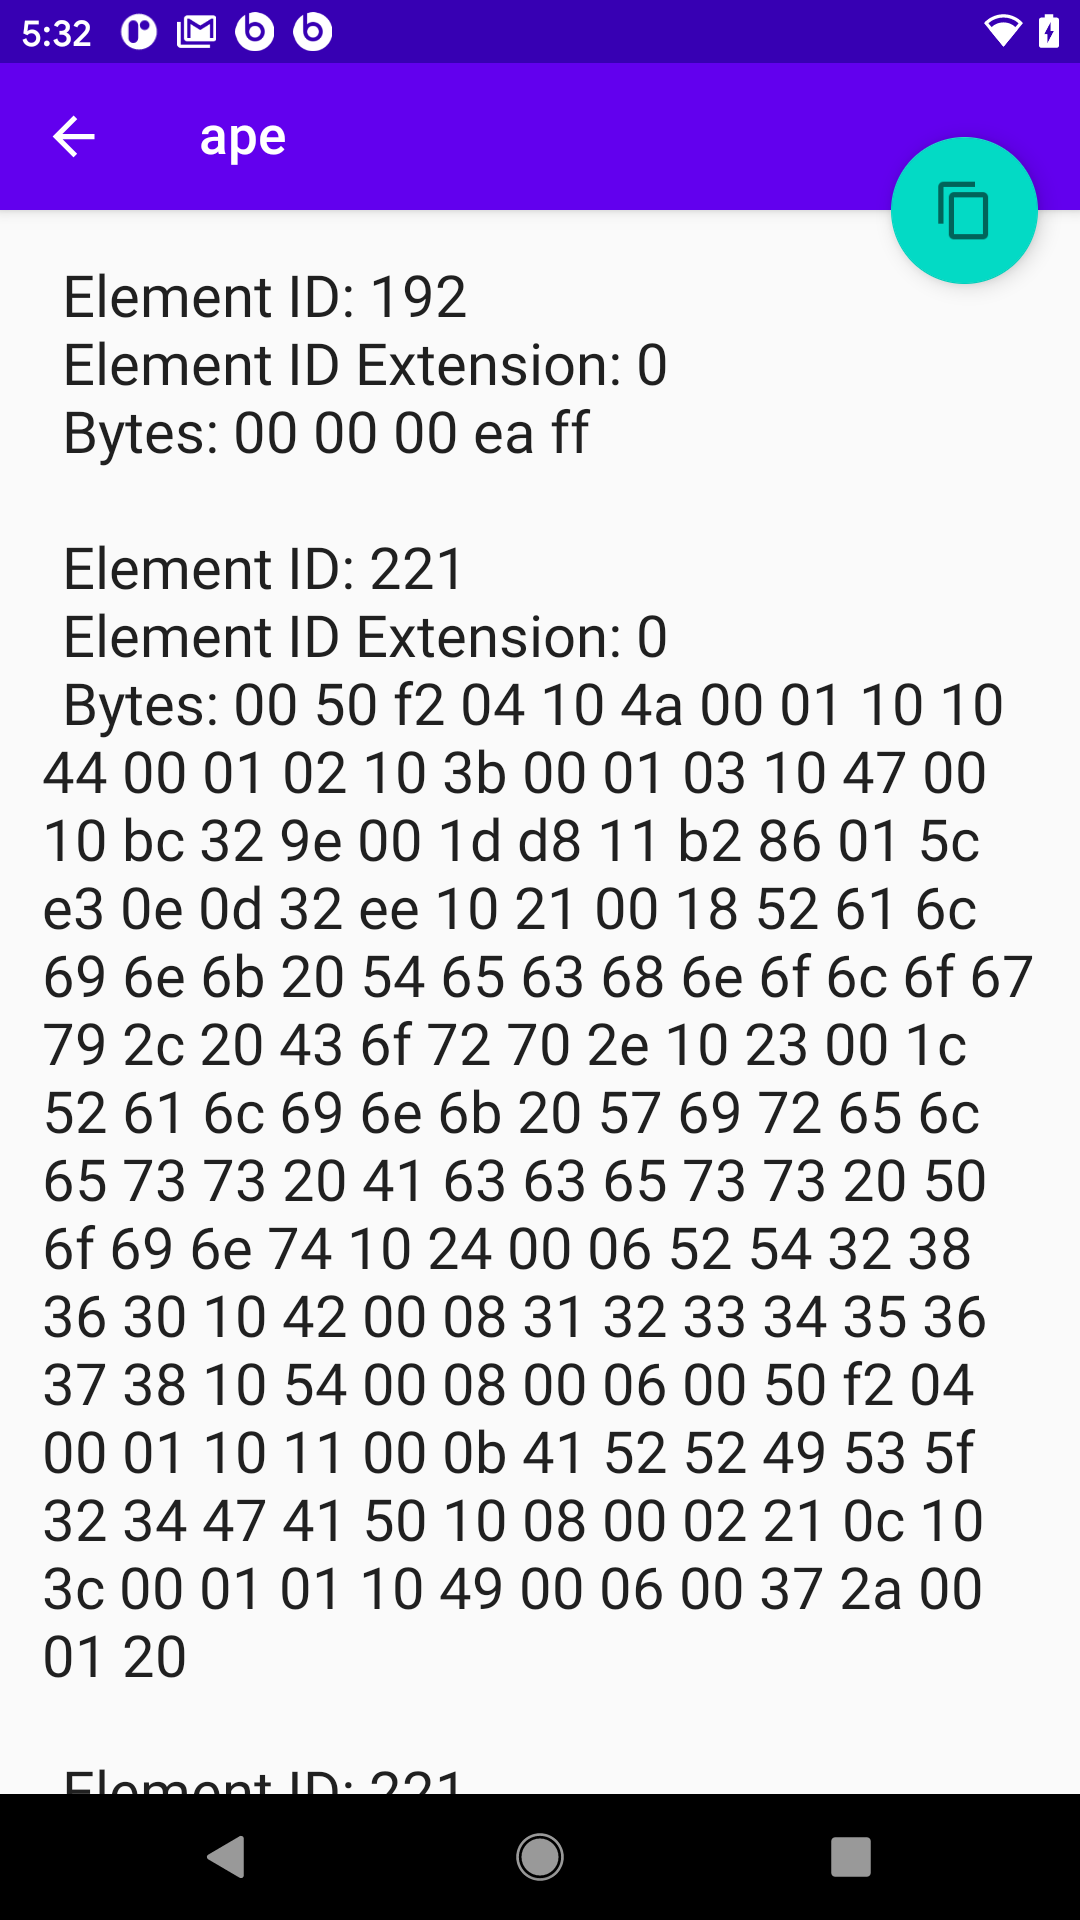
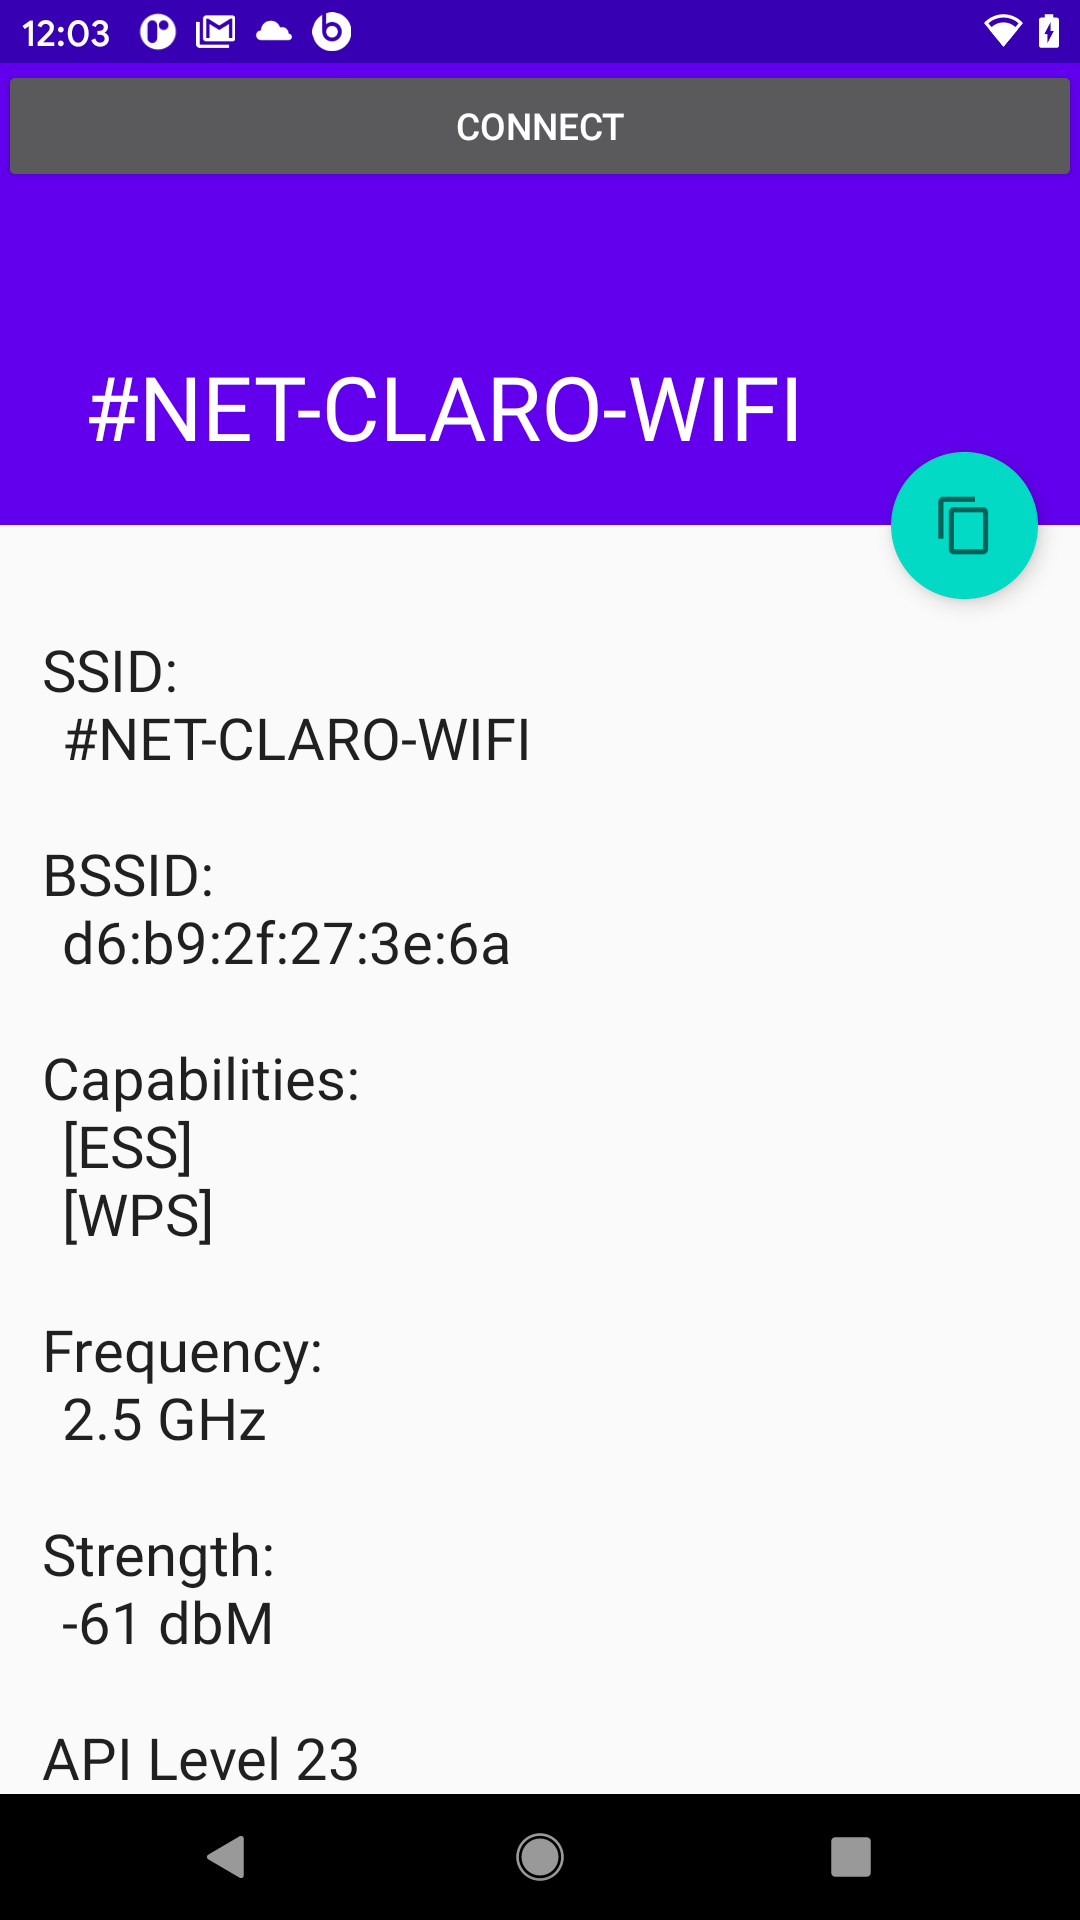
connect to open wifi networks

diff --git a/wifi-tool/app/src/main/java/io/github/tewarid/wifitool/ItemDetailActivity.kt b/wifi-tool/app/src/main/java/io/github/tewarid/wifitool/ItemDetailActivity.kt
@@ -1,12 +1,20 @@
 package io.github.tewarid.wifitool
 
-import android.R.attr.label
+import android.annotation.SuppressLint
 import android.content.ClipData
 import android.content.ClipboardManager
 import android.content.Context
 import android.content.Intent
+import android.net.*
+import android.net.wifi.ScanResult
+import android.net.wifi.WifiConfiguration
+import android.net.wifi.WifiManager
+import android.net.wifi.WifiNetworkSpecifier
+import android.os.Build
 import android.os.Bundle
 import android.view.MenuItem
+import android.widget.Button
+import androidx.annotation.RequiresApi
 import androidx.appcompat.app.AppCompatActivity
 import com.google.android.material.floatingactionbutton.FloatingActionButton
 import com.google.android.material.snackbar.Snackbar
@@ -25,14 +33,32 @@ class ItemDetailActivity : AppCompatActivity() {
         setContentView(R.layout.activity_item_detail)
         setSupportActionBar(findViewById(R.id.detail_toolbar))
 
+        val item = ScanResultContent.ITEM_MAP[intent.getStringExtra(ItemDetailFragment.ARG_ITEM_ID)]
+            ?: return
+
         findViewById<FloatingActionButton>(R.id.fab).setOnClickListener { view ->
-            val item = ScanResultContent.ITEM_MAP[intent.getStringExtra(ItemDetailFragment.ARG_ITEM_ID)]
             val clipboard: ClipboardManager =
                 getSystemService(Context.CLIPBOARD_SERVICE) as ClipboardManager
             val clip = ClipData.newPlainText("", item?.detailView)
             clipboard.setPrimaryClip(clip)
             Snackbar.make(view, "Text copied to clipboard", Snackbar.LENGTH_LONG)
                     .setAction("Action", null).show()
+        }
+
+        val connectView = findViewById<Button>(R.id.connect)
+        with (item?.capabilities)
+        {
+            when {
+                contains("WEP") || contains("PSK") || contains("EAP") -> connectView.isEnabled = false
+                else -> connectView.isEnabled = true
+            }
+        }
+        connectView.setOnClickListener {
+            if (Build.VERSION.SDK_INT >= Build.VERSION_CODES.Q) {
+                requestNetwork(item)
+            } else {
+                joinNetwork(item)
+            }
         }
 
         // Show the Up button in the action bar.
@@ -63,6 +89,37 @@ class ItemDetailActivity : AppCompatActivity() {
                     .add(R.id.item_detail_container, fragment)
                     .commit()
         }
+    }
+
+    @SuppressLint("MissingPermission")
+    private fun joinNetwork(network: ScanResult) {
+        val conf = WifiConfiguration()
+        conf.SSID = "\"" + network.SSID + "\""
+        conf.allowedKeyManagement.set(WifiConfiguration.KeyMgmt.NONE)
+        val wifiManager = applicationContext.getSystemService(Context.WIFI_SERVICE) as WifiManager
+        wifiManager.addNetwork(conf);
+        for (item in wifiManager.configuredNetworks) {
+            if (item.SSID == conf.SSID) {
+                wifiManager.disconnect()
+                wifiManager.enableNetwork(item.networkId, true)
+            }
+        }
+    }
+
+    @RequiresApi(Build.VERSION_CODES.Q)
+    private fun requestNetwork(network: ScanResult) {
+        val specifier = WifiNetworkSpecifier.Builder()
+            .setBssid(MacAddress.fromString(network.BSSID))
+            .build()
+        val request = NetworkRequest.Builder()
+            .addTransportType(NetworkCapabilities.TRANSPORT_WIFI)
+            .removeCapability(NetworkCapabilities.NET_CAPABILITY_INTERNET)
+            .setNetworkSpecifier(specifier)
+            .build()
+        val connectivityManager =
+            applicationContext.getSystemService(Context.CONNECTIVITY_SERVICE) as ConnectivityManager;
+        val networkCallback: ConnectivityManager.NetworkCallback = ConnectivityManager.NetworkCallback()
+        connectivityManager.requestNetwork(request, networkCallback);
     }
 
     override fun onOptionsItemSelected(item: MenuItem) =

diff --git a/wifi-tool/readme.md b/wifi-tool/readme.md
@@ -1,6 +1,6 @@
 # Wi-Fi Tool
 
-A simple tool to list Wi-Fi networks and view detailed information on each.
+A simple tool to list Wi-Fi networks, view detailed information on each, and connect to open networks.
 
 ![Network List](screenshot-1.png)
 ![Details](screenshot-2.png)
